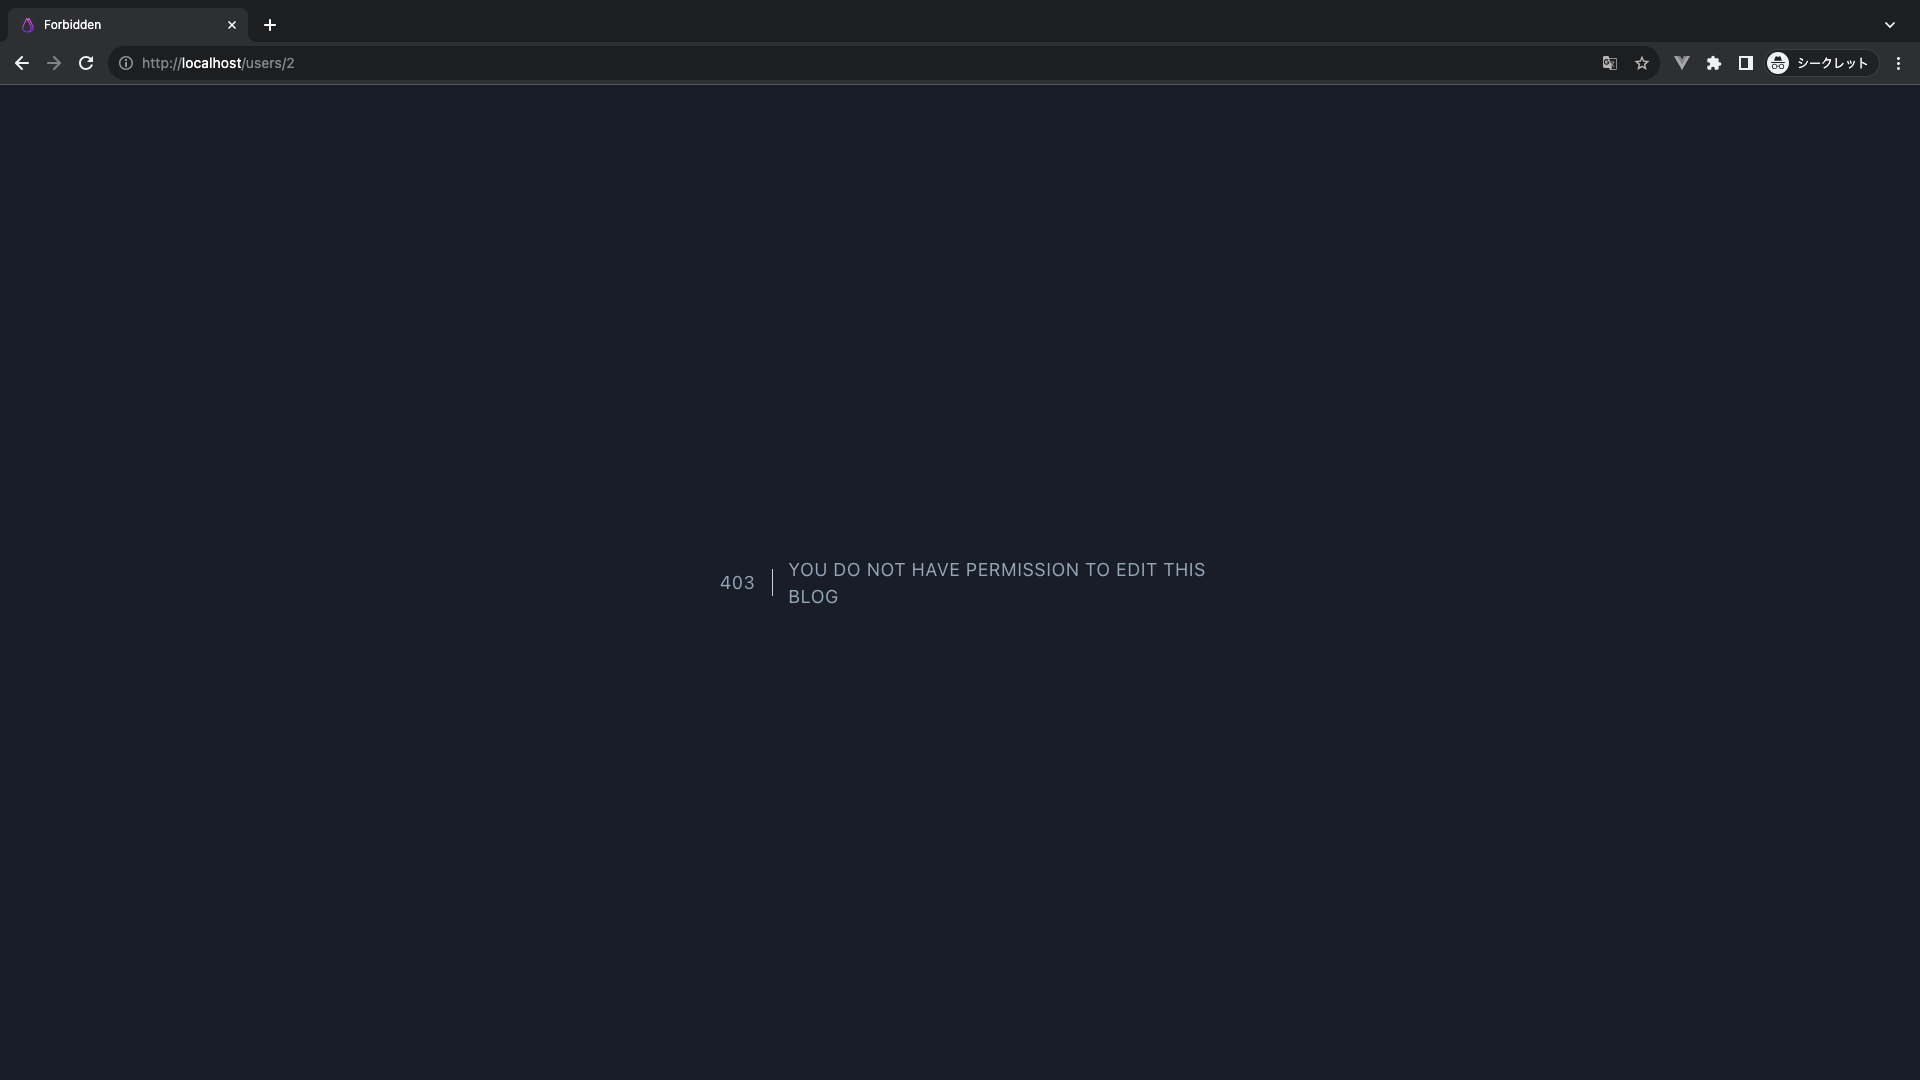
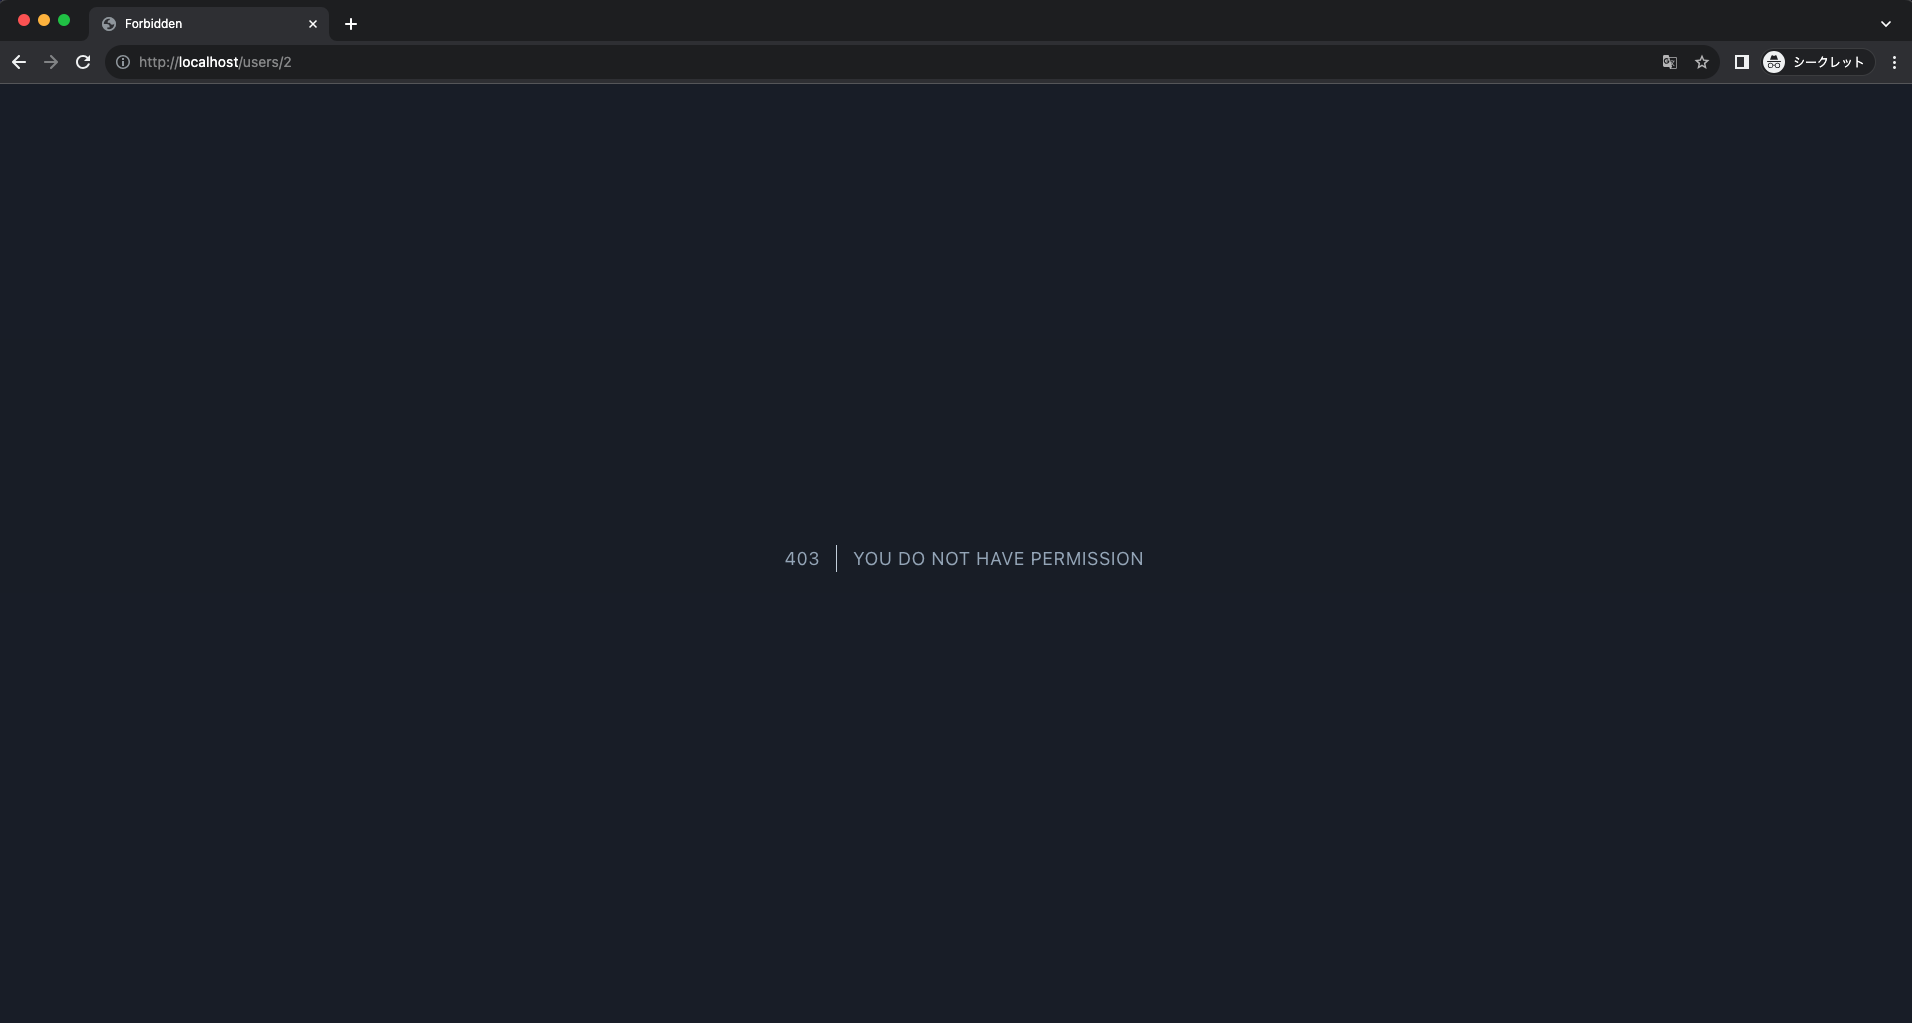
:memo: Update Docs. (#58)

Changed region(s): [[0.3703, 0.5152, 0.6172, 0.5758], [0.0, 0.0, 0.1543, 0.0909], [0.864, 0.0303, 0.9566, 0.0909]]

diff --git a/src/app/Http/Controllers/BlogController.php b/src/app/Http/Controllers/BlogController.php
@@ -81,7 +81,7 @@ class BlogController extends Controller
     {
         $blog = Blog::findOrFail($id);
         if (Auth::id() !== $blog->user_id) {
-            abort(403, 'You do not have permission to edit this blog');
+            abort(403, 'You do not have permission');
         }
         return view('blogs.edit', ['blog' => $blog]);
     }
@@ -101,7 +101,7 @@ class BlogController extends Controller
 
         $blog = Blog::findOrFail($id);
         if (Auth::id() !== $blog->user_id) {
-            abort(403, 'You do not have permission to edit this blog');
+            abort(403, 'You do not have permission');
         }
 
         $blog->title = $request->title;
@@ -120,7 +120,7 @@ class BlogController extends Controller
     {
         $blog = Blog::findOrFail($id);
         if (Auth::id() !== $blog->user_id) {
-            abort(403, 'You do not have permission to delete this blog');
+            abort(403, 'You do not have permission');
         }
 
         $blog->delete();

diff --git a/docs/en/INSUFFICIENT_AUTHORIZATION_CHECK.md b/docs/en/INSUFFICIENT_AUTHORIZATION_CHECK.md
@@ -10,7 +10,7 @@ When there is an insufficient authorization check, it becomes possible to impers
 
 ## Attack Methods
 
-In attacks exploiting insufficient authorization controls, attackers access resources or functionalities for which they do not have permission. This issue arises when a web application fails to properly authorize user actions.  
+In attacks exploiting insufficient authorization controls, attackers access resources or functionalities for which they do not have permission This issue arises when a web application fails to properly authorize user actions.  
 For example, an attacker might manipulate URL parameters or form data that are changeable, allowing them to view or modify another user's personal information.
 
 ## Mitigation Strategies
@@ -19,6 +19,12 @@ It is essential to validate the permissions of users for the actions they perfor
 For instance, manage user IDs using session information, and when accessing the database, use these IDs for verification. This approach ensures that only authorized users can perform specific actions, thereby safeguarding against unauthorized access or modifications.
 
 ## Hands-On (Attack)
+
+Let's pretend to be a malicious user and attack!
+
+### Image diagram
+
+![authorization](../img/authorization11.png)
 
 ### 1. Log In
 
@@ -53,6 +59,10 @@ A flash message is displayed, and you were able to edit another user's informati
 ![authorization](../img/authorization5.png)
 
 ## Hands-On (Mitigation) - Implementing Authorization Control to Prevent Editing of Other User's Information
+
+### Image diagram
+
+![authorization](../img/authorization13.png)
 
 ### Overview
 
@@ -131,7 +141,7 @@ public function update(Request $request, int $id): RedirectResponse
     // Comparing the logged-in user with the target resource for editing
     if (Auth::id() !== $user->id) {
         // Returns a 403 error
-        abort(403, 'You do not have permission to edit this blog');
+        abort(403, 'You do not have permission');
     }
 
     // Validates the request data.
@@ -174,7 +184,7 @@ SELECT * FROM users WHERE id = [ID] LIMIT 1;
 If `Auth::id() !== $user->id` does not match, editing is not permitted, so the `abort` function is used to generate an error response with an HTTP response code, immediately terminating the request processing.
 
 ```php
-abort(403, 'You do not have permission to edit this blog');
+abort(403, 'You do not have permission');
 ```
 
 ### Confirming Authorization Control to Prevent Editing of Other User's Information
@@ -211,7 +221,7 @@ public function edit(int $id): View
     $user = User::findOrFail($id);
     //  Authorization control
     if (Auth::id() !== $user->id) {
-        abort(403, 'You do not have permission to edit this blog');
+        abort(403, 'You do not have permission');
     }
     return view('users.edit', [
         'user' => $user,
